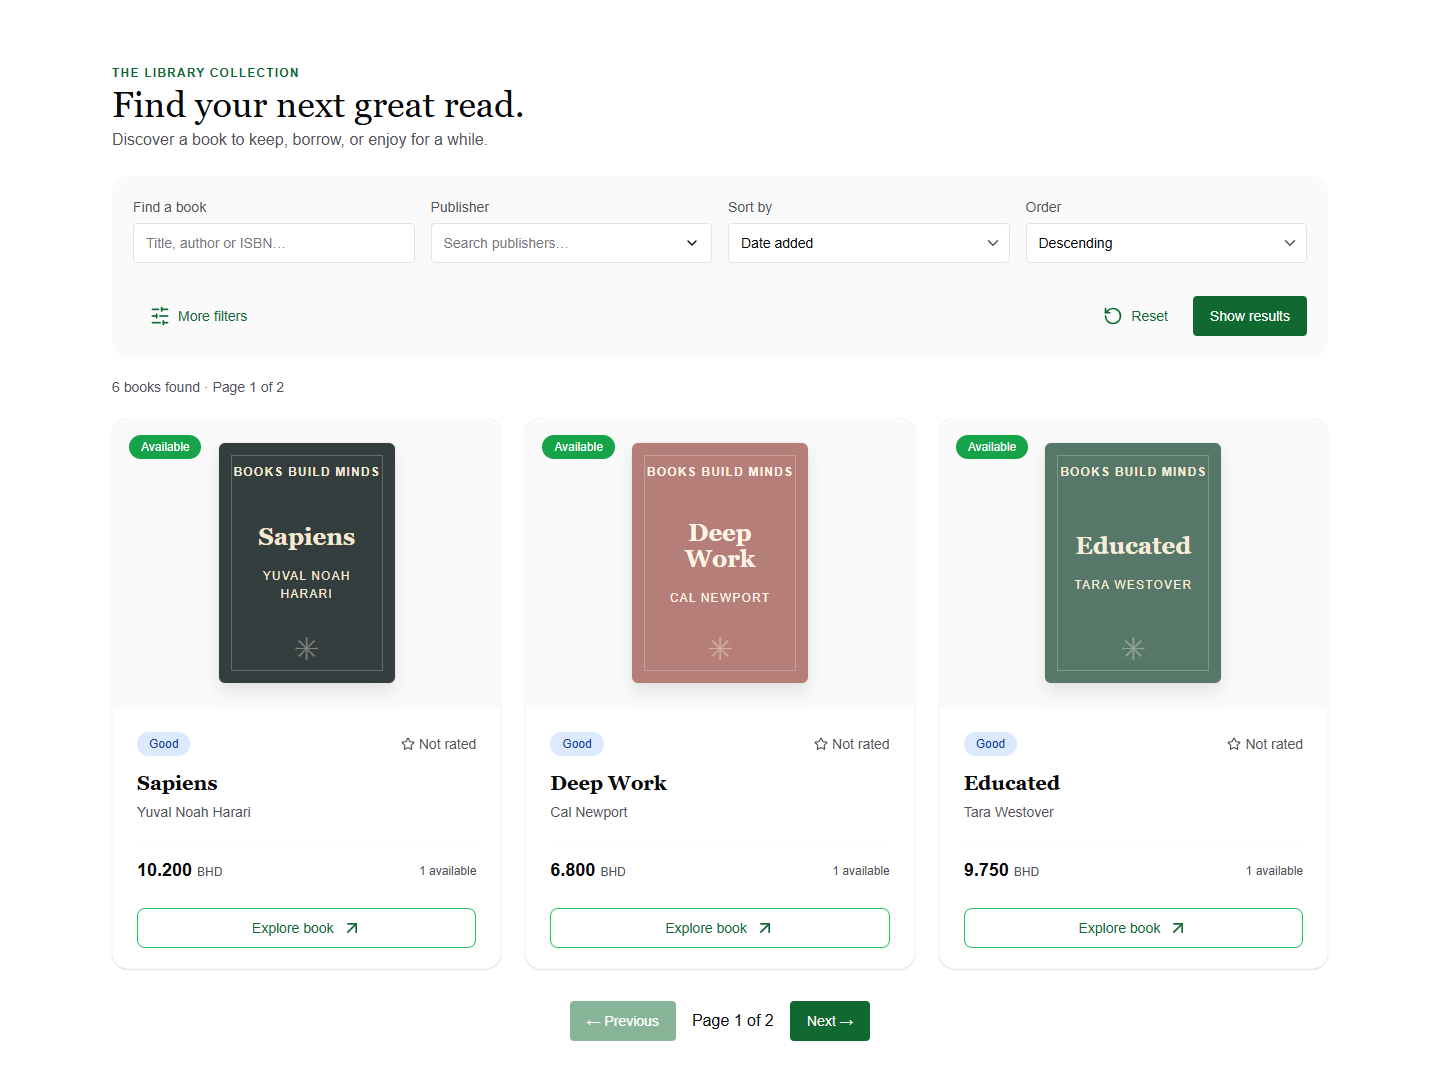
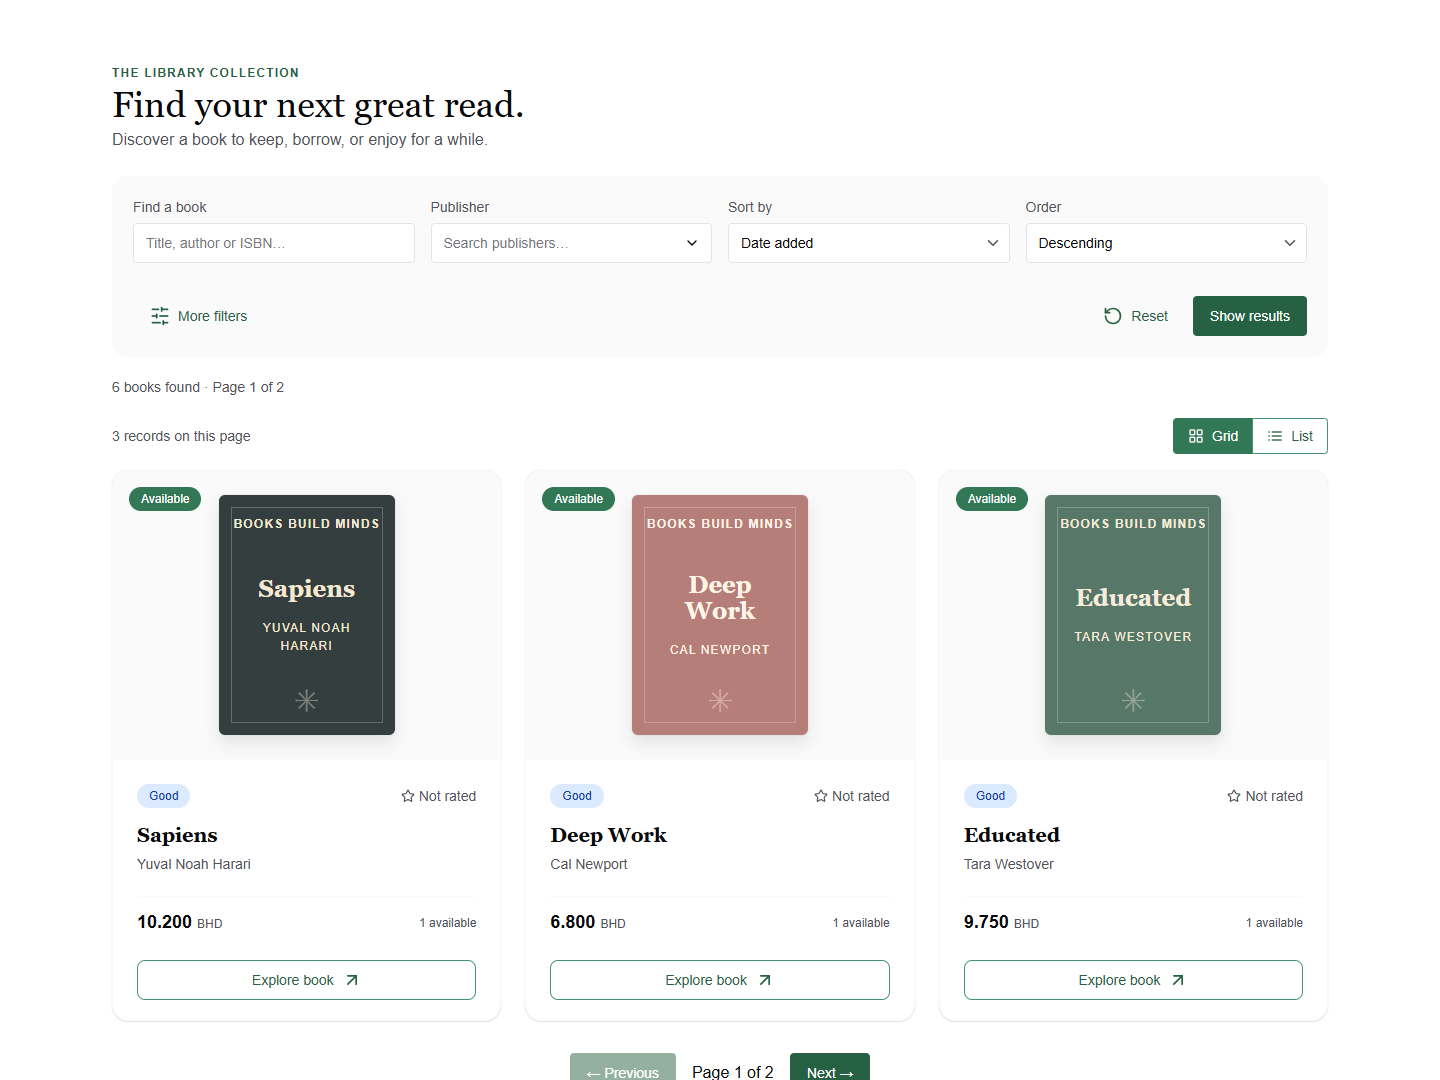
Add responsive catalog grid and list actions

diff --git a/src/Components/custom/GenericTable.tsx b/src/Components/custom/GenericTable.tsx
@@ -5,21 +5,30 @@ import GenericConfirmButton from "./actions/GenericConfirmButton";
 import CustomButton from "./CustomButton";
 import { useTableActions } from "@/hooks/ui/useTableActions";
 import type { GenericTableProps } from "@/props/custom/tables/GenericTableProps";
+import CollectionViewSwitch from "./tables/CollectionViewSwitch";
+import TableGrid from "./tables/TableGrid";
+import { CollectionView } from "@/enums/shared/CollectionView";
+import { useCollectionView } from "@/hooks/ui/useCollectionView";
 
-const GenericTable = <T,>({ rows, columns, getKey, emptyMessage, actions }: GenericTableProps<T>) => {
+const GenericTable = <T,>({ rows, columns, getKey, emptyMessage, actions, renderCard, initialView }: GenericTableProps<T>) => {
   const { selected, toggle, toggleAll, format, setFormat, bulkAction, setBulkAction, busy, error, fileInput, exportRows, importRows, bulk } = useTableActions(actions);
   const ids = rows.map(getKey);
+  const { view, setView } = useCollectionView(initialView);
+  const selectable = view === CollectionView.List && Boolean(actions?.onBulk || actions?.onExport);
   return <Box>
-    {actions && <Flex gap="3" wrap="wrap" align="center" mb="4">
-      {actions.onExport && <><NativeSelect.Root maxW="120px"><NativeSelect.Field aria-label="Export format" value={format} onChange={(event) => setFormat(event.target.value as typeof format)}><option value="xlsx">Excel</option><option value="pdf">PDF</option><option value="csv">CSV</option></NativeSelect.Field><NativeSelect.Indicator /></NativeSelect.Root><CustomButton appearance="secondary" loading={busy} onClick={exportRows}>Export</CustomButton></>}
+    <Flex justify="space-between" align="center" gap="3" mb="4" wrap="wrap"><Text color="fg.muted" fontSize="sm">{selected.length ? `${selected.length} selected` : `${rows.length} records on this page`}</Text><CollectionViewSwitch view={view} onChange={setView} /></Flex>
+    {actions && view === CollectionView.List && <Flex gap="3" wrap="wrap" align="center" mb="4">
+      {actions.onExport && <><NativeSelect.Root maxW="120px"><NativeSelect.Field aria-label="Export format" value={format} onChange={(event) => setFormat(event.target.value as typeof format)}><option value="xlsx">Excel</option><option value="pdf">PDF</option><option value="csv">CSV</option></NativeSelect.Field><NativeSelect.Indicator /></NativeSelect.Root><CustomButton appearance="secondary" loading={busy} onClick={exportRows}>{selected.length ? `Export ${selected.length} selected` : "Export results"}</CustomButton></>}
       {actions.onImport && <><input ref={fileInput} type="file" accept=".csv,.xlsx" onChange={importRows} hidden aria-label="Import table file" /><CustomButton appearance="secondary" loading={busy} onClick={() => fileInput.current?.click()}>Import CSV/Excel</CustomButton></>}
       {actions.onBulk && <><NativeSelect.Root maxW="160px"><NativeSelect.Field aria-label="Bulk action" value={bulkAction} onChange={(event) => setBulkAction(event.target.value)}><option value="">Bulk action</option>{actions.bulkActions?.map((item) => <option key={item.value} value={item.value}>{item.label}</option>)}</NativeSelect.Field><NativeSelect.Indicator /></NativeSelect.Root><GenericConfirmButton title="Apply bulk action?" description={`${bulkAction} will affect ${selected.length} selected records. Deletion keeps their history.`} confirmLabel="Apply changes" appearance="secondary" disabled={!selected.length || !bulkAction || busy} onConfirm={bulk}>Apply to {selected.length}</GenericConfirmButton></>}
     </Flex>}
     {error && <Text color="red.500" role="alert" mb="3">{error}</Text>}
-    {!rows.length ? <Text bg="bg.subtle" p="8" textAlign="center" color="fg.muted">{emptyMessage}</Text> :
+    {view === CollectionView.List && rows.length > 0 && <Text display={{ base: "block", md: "none" }} fontSize="xs" color="fg.muted" mb="2">Swipe the table sideways to see all columns.</Text>}
+    {!rows.length ? <Text bg="bg.subtle" p="8" textAlign="center" color="fg.muted">{emptyMessage}</Text> : view === CollectionView.Grid ?
+      <TableGrid rows={rows} columns={columns} getKey={getKey} renderCard={renderCard} selected={selected} selectable={selectable} onToggle={toggle} /> :
       <Box overflowX="auto" width="full"><Table.Root variant="line" size="md" interactive>
-        <Table.Header><Table.Row>{actions?.onBulk && <Table.ColumnHeader><Checkbox.Root checked={ids.every((id) => selected.includes(id))} onCheckedChange={() => toggleAll(ids)} aria-label="Select all rows"><Checkbox.HiddenInput /><Checkbox.Control /></Checkbox.Root></Table.ColumnHeader>}{columns.map((column) => <Table.ColumnHeader key={column.key}>{column.header}</Table.ColumnHeader>)}</Table.Row></Table.Header>
-        <Table.Body>{rows.map((item) => <Table.Row key={getKey(item)}>{actions?.onBulk && <Table.Cell><Checkbox.Root checked={selected.includes(getKey(item))} onCheckedChange={() => toggle(getKey(item))} aria-label={`Select row ${getKey(item)}`}><Checkbox.HiddenInput /><Checkbox.Control /></Checkbox.Root></Table.Cell>}{columns.map((column) => <Table.Cell key={column.key}>{column.render(item)}</Table.Cell>)}</Table.Row>)}</Table.Body>
+        <Table.Header><Table.Row>{selectable && <Table.ColumnHeader><Checkbox.Root checked={ids.every((id) => selected.includes(id))} onCheckedChange={() => toggleAll(ids)} aria-label="Select all rows"><Checkbox.HiddenInput /><Checkbox.Control /></Checkbox.Root></Table.ColumnHeader>}{columns.map((column) => <Table.ColumnHeader key={column.key}>{column.header}</Table.ColumnHeader>)}</Table.Row></Table.Header>
+        <Table.Body>{rows.map((item) => <Table.Row key={getKey(item)}>{selectable && <Table.Cell><Checkbox.Root checked={selected.includes(getKey(item))} onCheckedChange={() => toggle(getKey(item))} aria-label={`Select row ${getKey(item)}`}><Checkbox.HiddenInput /><Checkbox.Control /></Checkbox.Root></Table.Cell>}{columns.map((column) => <Table.Cell key={column.key}>{column.render(item)}</Table.Cell>)}</Table.Row>)}</Table.Body>
       </Table.Root></Box>}
   </Box>;
 };

diff --git a/src/Components/catalog/BookBrowser.tsx b/src/Components/catalog/BookBrowser.tsx
@@ -1,5 +1,5 @@
 "use client";
-import { Badge, Box, Heading, HStack, SimpleGrid, Text, Flex } from "@chakra-ui/react";
+import { Badge, Box, Heading, HStack, Text, Flex } from "@chakra-ui/react";
 import BookCard from "./BookCard";
 import BookFilterFields from "./filters/BookFilterFields";
 import BookAdvancedFilters from "./filters/BookAdvancedFilters";
@@ -8,6 +8,9 @@ import GenericPagination from "@/Components/custom/GenericPagination";
 import CustomButton from "@/Components/custom/CustomButton";
 import GenericStatusBadge from "@/Components/custom/GenericStatusBadge";
 import { bookStatusLabels, bookStatusColors } from "@/enums/books/BookStatus";
+import GenericTable from "@/Components/custom/GenericTable";
+import { bookColumns } from "@/constants/catalog/bookColumns";
+import { CollectionView } from "@/enums/shared/CollectionView";
 import { useBookCatalog } from "@/hooks/books/useBookCatalog";
 import type { BookBrowserProps } from "@/props/catalog/BookBrowserProps";
 
@@ -26,8 +29,10 @@ const BookBrowser = ({ initialPage }: BookBrowserProps) => {
     {state.error && <Text color="red.600" _dark={{ color: "red.300" }} role="alert" mt="4">{state.error}</Text>}
     <Text role="status" aria-live="polite" fontSize="sm" color="fg.muted" my="5">{state.loading ? "Updating collection…" : `${state.result.pagination.total} books found · Page ${state.result.pagination.page} of ${Math.max(1, state.result.pagination.pages)}`}</Text>
     <Box aria-busy={state.loading} opacity={state.loading ? 0.6 : 1}>
-      {state.result.items.length ? <SimpleGrid columns={{ base: 1, md: 2, lg: 3 }} gap="6">{state.result.items.map((book) => <BookCard key={book.bookId} book={book} />)}</SimpleGrid> :
-        <Box bg="bg.subtle" borderRadius="2xl" p="10" textAlign="center"><Heading as="h3" size="md">No books found</Heading><Text color="fg.muted" my="3">Try a different publisher or a wider price range.</Text><CustomButton appearance="secondary" onClick={state.clear}>Reset filters</CustomButton></Box>}
+      <GenericTable rows={state.result.items} columns={bookColumns} getKey={(book) => book.bookId}
+        initialView={CollectionView.Grid} renderCard={(book) => <BookCard book={book} />} actions={state.actions}
+        emptyMessage="Try a different publisher or a wider price range." />
+      {!state.result.items.length && <Box textAlign="center" p="6"><Heading as="h3" size="md" mb="3">No books found</Heading><CustomButton appearance="secondary" onClick={state.clear}>Reset filters</CustomButton></Box>}
     </Box>
     <GenericPagination pagination={state.result.pagination} onPageChange={(page) => void state.pageChange(page)} loading={state.loading} />
   </Box>;

diff --git a/src/hooks/books/useCatalogActions.ts b/src/hooks/books/useCatalogActions.ts
@@ -1,0 +1,28 @@
+"use client";
+import { useSession } from "@/hooks/auth/useSession";
+import { AccountRole } from "@/enums/accounts/AccountRole";
+import { Permission } from "@/enums/accounts/Permission";
+import { hasPermission } from "@/lib/access";
+import { bookService } from "@/services/bookService";
+import { downloadBase64 } from "@/lib/downloadBase64";
+import type { BookFilters } from "@/interfaces/books/BookFilters";
+import type { TableActions } from "@/props/custom/tables/TableActions";
+
+export const useCatalogActions = (filters: BookFilters, reload: () => Promise<void>): TableActions | undefined => {
+  const { user } = useSession();
+  if (!user) return undefined;
+  const admin = user.role === AccountRole.Admin;
+  return {
+    onExport: async (format, selected) => {
+      const result = await bookService.export(filters, format, selected?.map(Number));
+      const mime = format === "pdf" ? "application/pdf" : format === "csv" ? "text/csv" : "application/vnd.openxmlformats-officedocument.spreadsheetml.sheet";
+      downloadBase64(result.base64, `library-books.${format}`, mime);
+    },
+    onImport: admin && hasPermission(user, Permission.BookImport) ? async (file) => { await bookService.import(file); await reload(); } : undefined,
+    onBulk: admin && hasPermission(user, Permission.BookBulkEdit) ? async (ids, action) => {
+      if (action !== "archive" && action !== "unarchive" && action !== "delete") throw new Error("Unsupported action.");
+      await bookService.bulk(ids.map(Number), action); await reload();
+    } : undefined,
+    bulkActions: [{ value: "archive", label: "Archive" }, { value: "unarchive", label: "Unarchive" }, { value: "delete", label: "Soft delete" }],
+  };
+};

diff --git a/src/hooks/books/useBookCatalog.ts b/src/hooks/books/useBookCatalog.ts
@@ -6,11 +6,13 @@ import type { BookFilterForm } from "@/interfaces/books/BookFilterForm";
 import type { BookFilters } from "@/interfaces/books/BookFilters";
 import type { BookSummary } from "@/interfaces/books/BookSummary";
 import type { Page } from "@/interfaces/shared/Page";
+import { useCatalogActions } from "./useCatalogActions";
 
 export const useBookCatalog = (initialPage: Page<BookSummary>) => {
   const [form, setForm] = useState<BookFilterForm>(emptyForm);
   const [validation, setValidation] = useState("");
   const { result, query, loading, error, run } = useBooks(initialPage);
+  const actions = useCatalogActions(query, () => run(query));
   const update = <K extends keyof BookFilterForm>(key: K, value: BookFilterForm[K]) =>
     setForm((previous) => ({ ...previous, [key]: value }));
   const apply = () => {
@@ -27,5 +29,5 @@ export const useBookCatalog = (initialPage: Page<BookSummary>) => {
   const activeFilters = [query.q && `Search: ${query.q}`, query.publisher && `Publisher: ${query.publisher}`,
     query.minPrice !== undefined && `From ${query.minPrice} BHD`,
     query.maxPrice !== undefined && `Up to ${query.maxPrice} BHD`].filter(Boolean) as string[];
-  return { form, update, result, loading, error: validation || error, apply, clear, pageChange, activeFilters, appliedCondition: query.condition };
+  return { form, update, result, loading, error: validation || error, apply, clear, pageChange, activeFilters, appliedCondition: query.condition, actions };
 };

diff --git a/src/constants/catalog/bookColumns.tsx b/src/constants/catalog/bookColumns.tsx
@@ -1,0 +1,15 @@
+import Link from "next/link";
+import { Link as ChakraLink } from "@chakra-ui/react";
+import GenericStatusBadge from "@/Components/custom/GenericStatusBadge";
+import { bookStatusColors, bookStatusLabels } from "@/enums/books/BookStatus";
+import type { TableColumn } from "@/props/custom/tables/TableColumn";
+import type { BookSummary } from "@/interfaces/books/BookSummary";
+
+export const bookColumns: TableColumn<BookSummary>[] = [
+  { key: "title", header: "Book", render: (book) => <ChakraLink asChild fontWeight="semibold"><Link href={`/book/${book.slug}`}>{book.title}</Link></ChakraLink> },
+  { key: "author", header: "Author", render: (book) => book.author },
+  { key: "publisher", header: "Publisher", render: (book) => book.publisher },
+  { key: "condition", header: "Condition", render: (book) => <GenericStatusBadge value={book.condition} labels={bookStatusLabels} colors={bookStatusColors} /> },
+  { key: "price", header: "Price", render: (book) => `${book.price.toFixed(3)} BHD` },
+  { key: "available", header: "Available copies", render: (book) => book.availableCopies },
+];

diff --git a/src/Components/custom/tables/TableGrid.tsx b/src/Components/custom/tables/TableGrid.tsx
@@ -1,0 +1,14 @@
+import { Box, Checkbox, SimpleGrid, Text } from "@chakra-ui/react";
+import GenericCard from "../display/GenericCard";
+import type { TableGridProps } from "@/props/custom/tables/TableGridProps";
+
+const TableGrid = <T,>({ rows, columns, getKey, renderCard, selected, selectable, onToggle }: TableGridProps<T>) =>
+  <SimpleGrid columns={{ base: 1, md: 2, lg: 3 }} gap="6">{rows.map((item) => <Box key={getKey(item)} minW="0">
+    {selectable && <Checkbox.Root mb="3" checked={selected.includes(getKey(item))} onCheckedChange={() => onToggle(getKey(item))}>
+      <Checkbox.HiddenInput /><Checkbox.Control /><Checkbox.Label>Select record {getKey(item)}</Checkbox.Label>
+    </Checkbox.Root>}
+    {renderCard ? renderCard(item) : <GenericCard>{columns.map((column) => <Box key={column.key} overflowWrap="anywhere">
+      <Text color="fg.muted" fontSize="xs" mb="1">{column.header}</Text><Box>{column.render(item)}</Box>
+    </Box>)}</GenericCard>}
+  </Box>)}</SimpleGrid>;
+export default TableGrid;

diff --git a/src/Components/custom/tables/CollectionViewSwitch.tsx b/src/Components/custom/tables/CollectionViewSwitch.tsx
@@ -1,0 +1,10 @@
+import { Button, Group } from "@chakra-ui/react";
+import { LuLayoutGrid, LuList } from "react-icons/lu";
+import { CollectionView } from "@/enums/shared/CollectionView";
+import type { CollectionViewSwitchProps } from "@/props/custom/tables/CollectionViewSwitchProps";
+
+const CollectionViewSwitch = ({ view, onChange }: CollectionViewSwitchProps) => <Group attached role="group" aria-label="Display layout">
+  <Button type="button" size="sm" colorPalette="green" variant={view === CollectionView.Grid ? "solid" : "outline"} aria-pressed={view === CollectionView.Grid} onClick={() => onChange(CollectionView.Grid)}><LuLayoutGrid />Grid</Button>
+  <Button type="button" size="sm" colorPalette="green" variant={view === CollectionView.List ? "solid" : "outline"} aria-pressed={view === CollectionView.List} onClick={() => onChange(CollectionView.List)}><LuList />List</Button>
+</Group>;
+export default CollectionViewSwitch;

diff --git a/src/services/bookService.ts b/src/services/bookService.ts
@@ -25,7 +25,7 @@ export const bookService = {
   update: (slug: string, book: CreateBookInput) => api<BookResult>(`/books/${encodeURIComponent(slug)}`, { method: "PUT", body: JSON.stringify(book) }),
   remove: (slug: string) => api<{ message: string }>(`/books/${encodeURIComponent(slug)}`, { method: "DELETE" }),
   managed: (filters: BookFilters) => api<Page<BookSummary>>(`/books/manage${buildQuery(filters)}`),
-  export: (filters: BookFilters, format: "pdf" | "xlsx" | "csv") => api<{ base64: string }>(`/books/export${buildQuery({ ...filters, format })}`),
+  export: (filters: BookFilters, format: "pdf" | "xlsx" | "csv", ids?: number[]) => api<{ base64: string }>(`/books/export${buildQuery({ ...filters, format, ids: ids?.length ? ids.join(",") : undefined })}`),
   import: (file: File) => {
     const body = new FormData();
     body.append("file", file);

diff --git a/src/hooks/admin/useAdminInventory.ts b/src/hooks/admin/useAdminInventory.ts
@@ -31,8 +31,8 @@ export const useAdminInventory = () => {
   const apply = () => setFilters({ ...filters, page: 1, q: search.trim() || undefined });
   const clear = () => { setSearch(""); setFilters(initialFilters); };
   const pageChange = (page: number) => setFilters((previous) => ({ ...previous, page }));
-  const exportRows = async (format: "pdf" | "xlsx" | "csv") => {
-    const result = await bookService.export(filters, format);
+  const exportRows = async (format: "pdf" | "xlsx" | "csv", selected?: (string | number)[]) => {
+    const result = await bookService.export(filters, format, selected?.map(Number));
     const mimeType = format === "pdf" ? "application/pdf" : format === "csv" ? "text/csv" : "application/vnd.openxmlformats-officedocument.spreadsheetml.sheet";
     downloadBase64(result.base64, `library-books.${format}`, mimeType);
   };

diff --git a/src/hooks/ui/useTableActions.ts b/src/hooks/ui/useTableActions.ts
@@ -21,10 +21,10 @@ export const useTableActions = (actions?: TableActions) => {
     catch (cause) { setError(cause instanceof Error ? cause.message : "Table action failed."); }
     finally { setBusy(false); }
   };
-  const exportRows = () => perform(() => actions?.onExport?.(format) ?? Promise.resolve());
+  const exportRows = () => perform(() => actions?.onExport?.(format, selected) ?? Promise.resolve());
   const importRows = (event: ChangeEvent<HTMLInputElement>) => {
     const file = event.target.files?.[0];
-    if (file) void perform(() => actions?.onImport?.(file) ?? Promise.resolve());
+    if (file) void perform(async () => { await actions?.onImport?.(file); setSelected([]); });
     event.target.value = "";
   };
   const bulk = async () => {

diff --git a/src/props/custom/tables/GenericTableProps.ts b/src/props/custom/tables/GenericTableProps.ts
@@ -1,3 +1,13 @@
 import type { TableColumn } from "./TableColumn";
 import type { TableActions } from "./TableActions";
-export interface GenericTableProps<T> { rows: T[]; columns: TableColumn<T>[]; getKey: (item: T) => string | number; emptyMessage: string; actions?: TableActions }
+import type { ReactNode } from "react";
+import type { CollectionView } from "@/enums/shared/CollectionView";
+export interface GenericTableProps<T> {
+  rows: T[];
+  columns: TableColumn<T>[];
+  getKey: (item: T) => string | number;
+  emptyMessage: string;
+  actions?: TableActions;
+  renderCard?: (item: T) => ReactNode;
+  initialView?: CollectionView;
+}

diff --git a/src/props/custom/tables/TableActions.ts b/src/props/custom/tables/TableActions.ts
@@ -1,7 +1,7 @@
 import type { TableBulkAction } from "@/interfaces/shared/TableBulkAction";
 
 export interface TableActions {
-  onExport?: (format: "pdf" | "xlsx" | "csv") => Promise<void>;
+  onExport?: (format: "pdf" | "xlsx" | "csv", selected?: (string | number)[]) => Promise<void>;
   onImport?: (file: File) => Promise<void>;
   onBulk?: (ids: (string | number)[], action: string) => Promise<void>;
   bulkActions?: TableBulkAction[];
